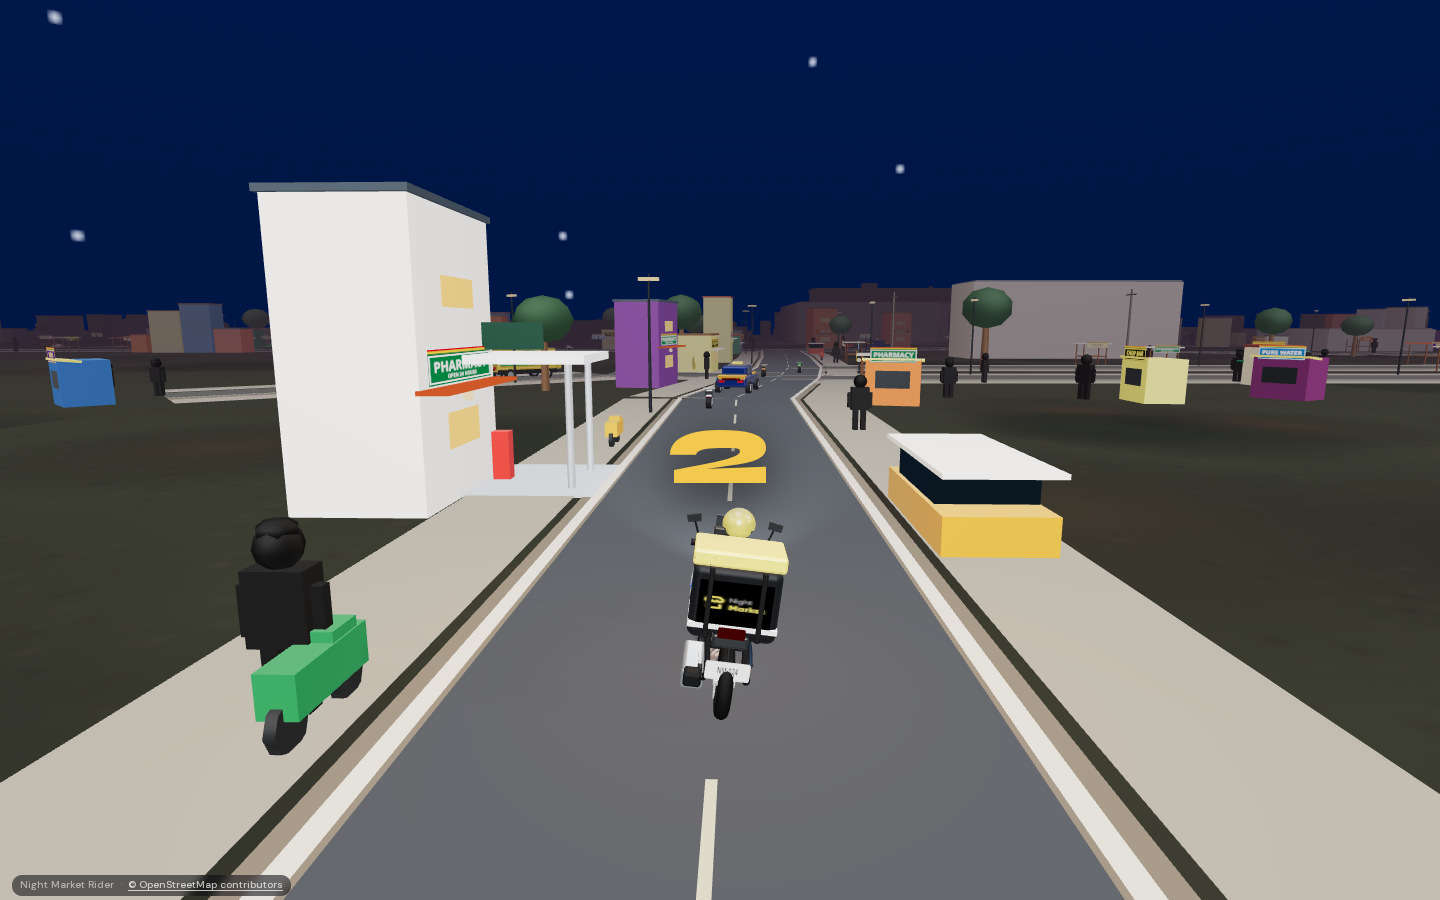
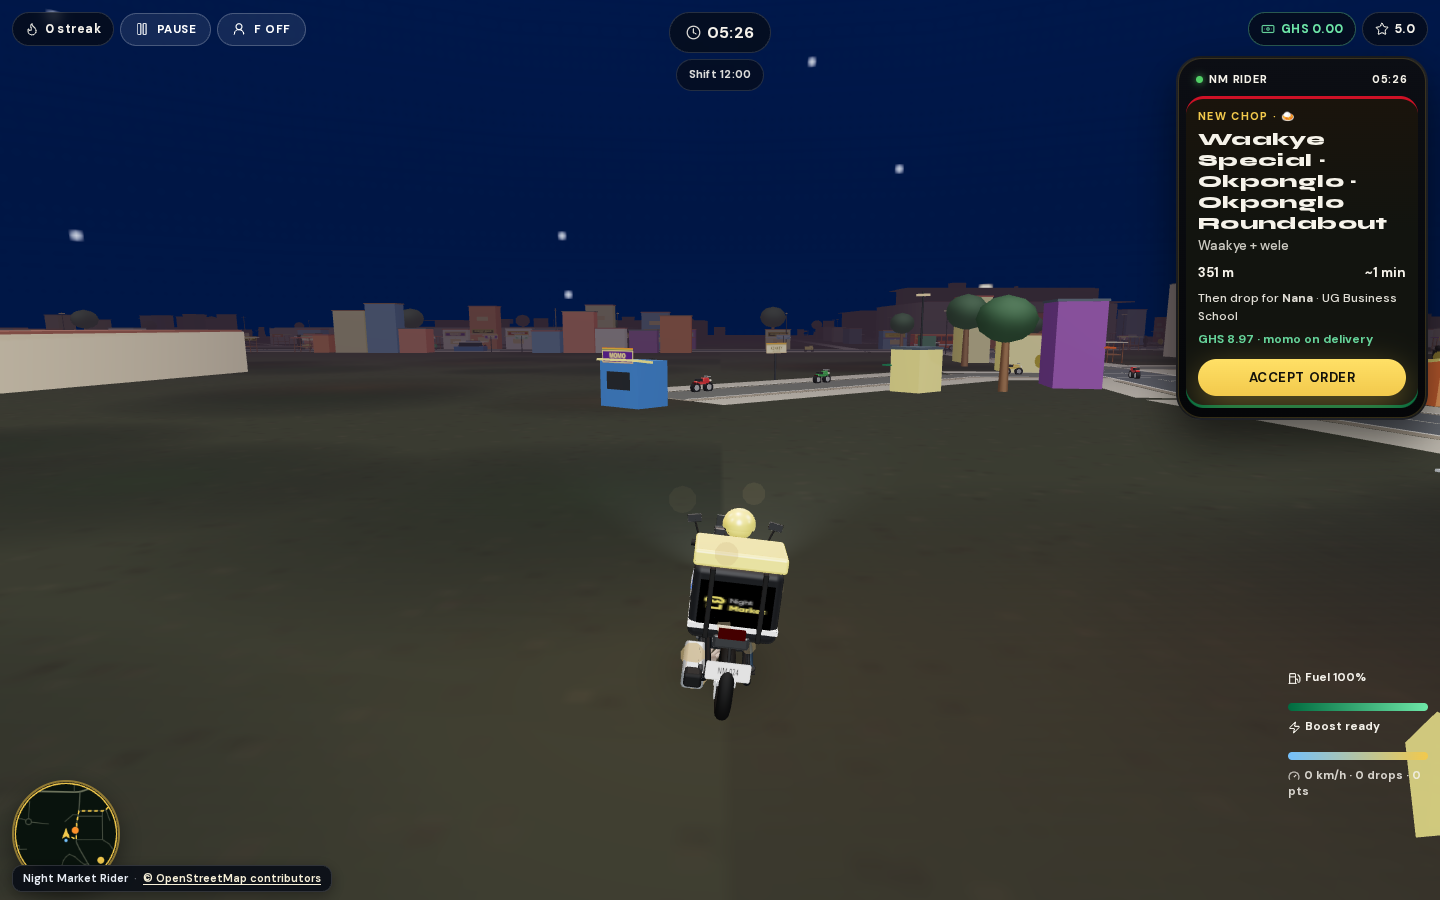
Update after title/HUD screenshots and design notes for round 2.

diff --git a/docs/ui-polish-design.md b/docs/ui-polish-design.md
@@ -30,8 +30,14 @@
 
 ## Title backdrop
 
-- Menu orbit is anchored at **Okponglo Roundabout** (OSM location) with road-aligned camera look-ahead so the title frames shops, traffic, and street life instead of a blank facade.
-- ACES exposure matches pre-polish main values; environment map intensity on buildings is kept low to avoid washed-out walls.
+- Menu anchor prefers **Legon Traffic Light**, then Okponglo, then Night Market — snapped to the nearest road with a road-aligned cinematic orbit (wider/slower on desktop).
+- Before the menu opens, the client waits on `engine.menuReady`: OSM chunks are primed in a ring around the anchor, then `warmMenuScene()` simulates traffic and pedestrians so palms, shop fronts, vehicles, and walkers are visible at 1440×900 and 1920×1080.
+- Gameplay spawn on “Start riding” is unchanged (`0, -18` snap).
+- ACES exposure matches pre-polish main values; building env maps stay subdued.
+
+## Footer / OSM credit
+
+- Small-type footer uses ~`#e8edf5` on `rgba(8,12,22,0.88)` (WCAG AA for normal small text). In-game on touch viewports it sits above touch controls (`nm-footer--in-game`).
 
 ## Deferred
 
